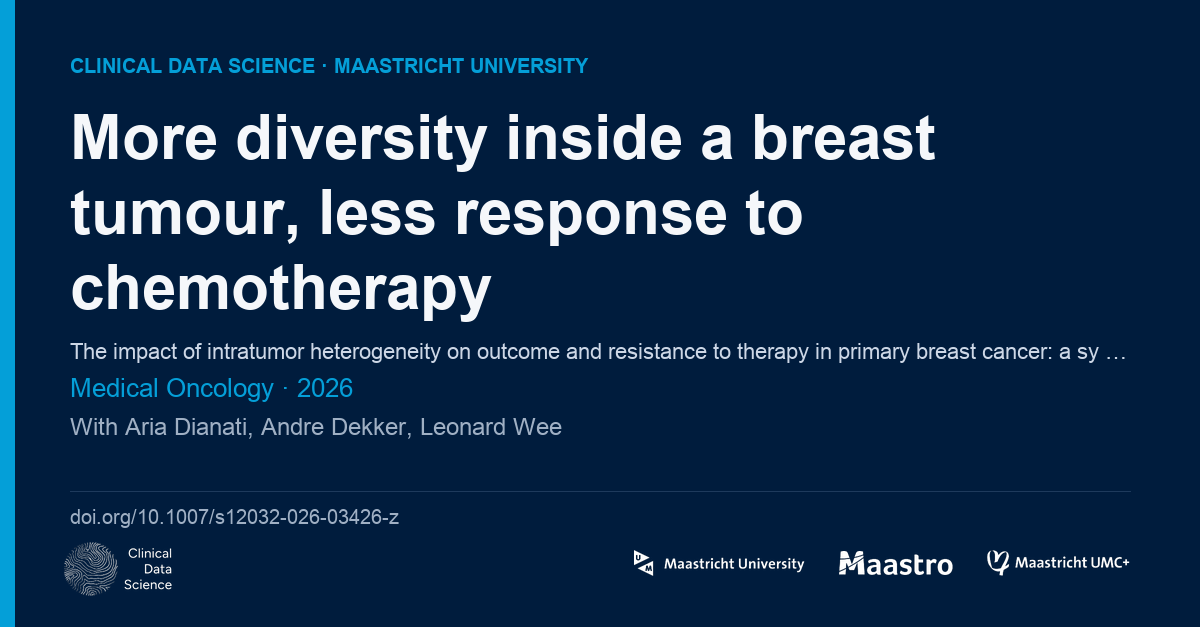
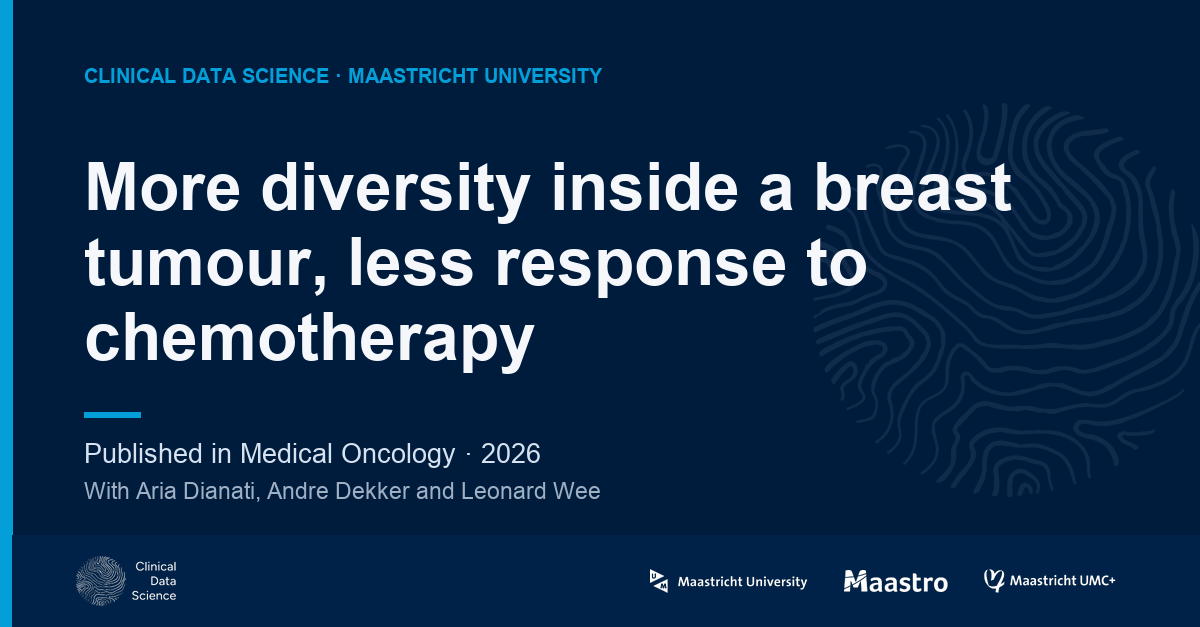
Card redesign: one message, strong hierarchy, proof line, byline, quiet brand with watermark and footer band

diff --git a/pubpulse/images.py b/pubpulse/images.py
@@ -79,64 +79,81 @@ def _ellipsis(text: str, font, max_width: int, draw) -> str:
 
 
 def make_card(w: dict, names: dict[str, str], out_path: Path, group_label: str = "Clinical Data Science · Maastricht University", finding: str | None = None) -> Path:
-    """Branded 1200x627 card. With `finding` (the main point, usually the first line of the draft post) the finding is the
-    headline and the title goes underneath; without it the title is the headline. Footer: CDS emblem and partner logos."""
+    """Branded 1200x627 card built for one message: a large headline (the catchy main point), one proof line
+    (journal and year), one byline (group authors), quiet branding. Title and DOI live in the post and the comment."""
     from PIL import Image, ImageDraw
 
-    img = Image.new("RGB", CARD_SIZE, NAVY)
+    W, H = CARD_SIZE
+    M = 84  # margin
+    img = Image.new("RGB", (W, H), NAVY)
+    # watermark: the CDS emblem, faint, right side
+    mark = _svg_image("cds-mask.svg", 460)
+    if mark is not None:
+        alpha = mark.split()[3].point(lambda a: int(a * 0.07))
+        white = Image.new("RGBA", mark.size, (255, 255, 255, 0))
+        white.putalpha(alpha)
+        img.paste(white, (W - mark.width + 40, 70), white)
     d = ImageDraw.Draw(img)
-    d.rectangle([(0, 0), (14, CARD_SIZE[1])], fill=ACCENT)
-    x, y, width = 70, 54, CARD_SIZE[0] - 140
-    d.text((x, y), group_label.upper(), font=_font(20, True), fill=ACCENT)
-    y += 48
+    d.rectangle([(0, 0), (12, H)], fill=ACCENT)
+
+    # eyebrow
+    d.text((M, 64), group_label.upper(), font=_font(20, True), fill=ACCENT)
+
+    # headline: 3 lines max, size adapts
     headline = (finding or w["title"]).strip()
-    size = 62 if len(headline) <= 70 else 44 if len(headline) < 120 else 38 if len(headline) < 190 else 33
-    head_font = _font(size, True)
-    lines = _wrap(headline, head_font, width, d)
-    while len(lines) > 4 and size > 28:
-        size -= 3
-        head_font = _font(size, True)
-        lines = _wrap(headline, head_font, width, d)
-    if len(lines) > 4:
-        lines = lines[:4]
-        lines[-1] = lines[-1].rstrip(".,;:") + " …"
+    width = W - 2 * M - 60
+    size = 66
+    while True:
+        hf = _font(size, True)
+        lines = _wrap(headline, hf, width, d)
+        if len(lines) <= 3 or size <= 40:
+            break
+        size -= 4
+    if len(lines) > 3:
+        lines = lines[:3]
+        lines[-1] = _ellipsis(lines[-1], hf, width, d)
+    lh = int(size * 1.15)
+    block_h = len(lines) * lh
+    y = 150 + (3 * int(66 * 1.15) - block_h) // 2  # keep the block vertically centred in its zone
     for line in lines:
-        d.text((x, y), line, font=head_font, fill=LIGHT)
-        y += int(head_font.size * 1.22)
-    y += 12
-    if finding:
-        tf = _font(22)
-        d.text((x, y), _ellipsis(w["title"], tf, width, d), font=tf, fill=(205, 215, 230))
-        y += 34
-    meta = " · ".join(x for x in (w.get("journal"), (w.get("publication_date") or "")[:4]) if x)
-    d.text((x, y), _ellipsis(meta, _font(26), width, d), font=_font(26), fill=ACCENT)
+        d.text((M, y), line, font=hf, fill=LIGHT)
+        y += lh
+    # accent rule + proof line + byline
+    y = 412
+    d.rectangle([(M, y), (M + 56, y + 5)], fill=ACCENT)
+    y += 26
+    journal = w.get("journal") or "Peer-reviewed publication"
+    proof = f"Published in {journal} · {(w.get('publication_date') or '')[:4]}".strip(" ·")
+    d.text((M, y), _ellipsis(proof, _font(27), W - 2 * M, d), font=_font(27), fill=(214, 226, 240))
     y += 40
-    members = ", ".join(names.get(s, s) for s in w.get("group_members", []))
+    members = [names.get(s, s) for s in w.get("group_members", [])]
     if members:
-        mf = _font(24)
-        mlines = _wrap("With " + members, mf, width, d)
-        if len(mlines) > 2:
-            mlines = mlines[:2]
-            mlines[-1] = _ellipsis(mlines[-1], mf, width - 30, d)
-        for line in mlines:
-            d.text((x, y), line, font=mf, fill=MUTED)
-            y += 32
-    # footer: DOI, CDS emblem left, partner logos right
-    foot_y = CARD_SIZE[1] - 118
-    d.line([(x, foot_y - 18), (CARD_SIZE[0] - 70, foot_y - 18)], fill=(30, 58, 92), width=1)
-    d.text((x, foot_y - 4), (w.get("doi") or "").replace("https://", ""), font=_font(20), fill=MUTED)
-    logo_y = CARD_SIZE[1] - 78
-    cds = _svg_image("cds.svg", 56)
-    if cds:
-        img.paste(cds, (x - 6, logo_y - 8), cds)
-    right = CARD_SIZE[0] - 70
-    for name, h in (("maastricht-umc.svg", 26), ("maastro.svg", 24), ("maastricht-university.svg", 26)):
+        bf = _font(23)
+        shown = list(members)
+        while True:
+            rest = len(members) - len(shown)
+            by = ", ".join(shown[:-1]) + (" and " if len(shown) > 1 else "") + shown[-1] if shown else ""
+            if rest:
+                by = ", ".join(shown) + f" and {rest} more"
+            if d.textlength("With " + by, font=bf) <= W - 2 * M or len(shown) <= 1:
+                break
+            shown = shown[:-1]
+        d.text((M, y), "With " + by, font=bf, fill=MUTED)
+
+    # footer: emblem left, partner logos right, on a slightly lighter band
+    band_y = H - 92
+    d.rectangle([(12, band_y), (W, H)], fill=(0, 34, 72))
+    cds = _svg_image("cds.svg", 52)
+    if cds is not None:
+        img.paste(cds, (M - 8, band_y + 20), cds)
+    right = W - M
+    for name, h in (("maastricht-umc.svg", 24), ("maastro.svg", 22), ("maastricht-university.svg", 24)):
         logo = _svg_image(name, h)
-        if not logo:
+        if logo is None:
             continue
         right -= logo.width
-        img.paste(logo, (right, logo_y + (28 - logo.height) // 2), logo)
-        right -= 34
+        img.paste(logo, (right, band_y + 46 - logo.height // 2), logo)
+        right -= 36
     out_path.parent.mkdir(parents=True, exist_ok=True)
     img.save(out_path, "PNG", optimize=True)
     return out_path
